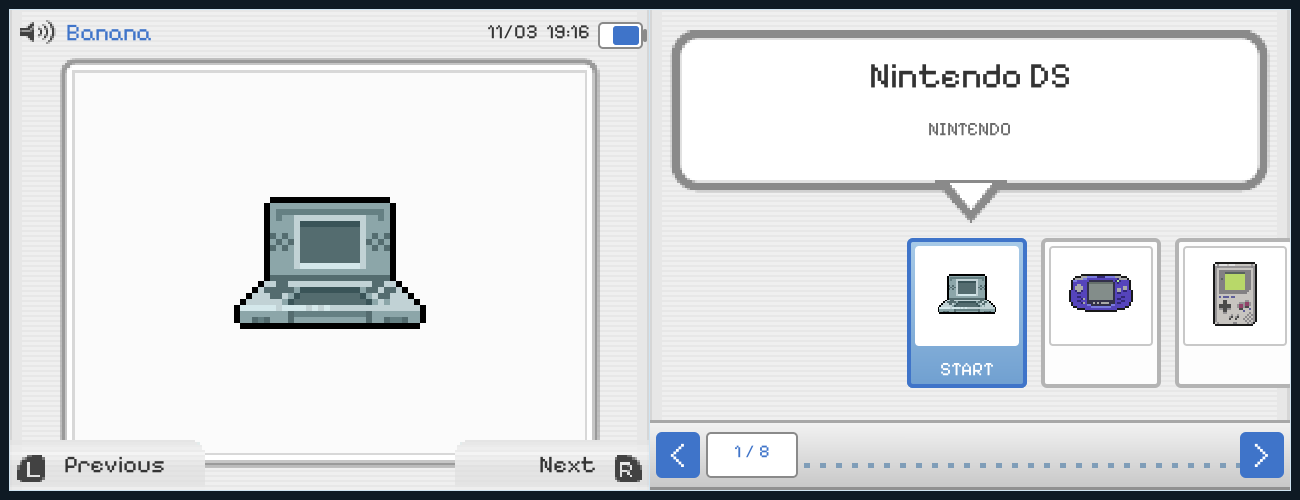
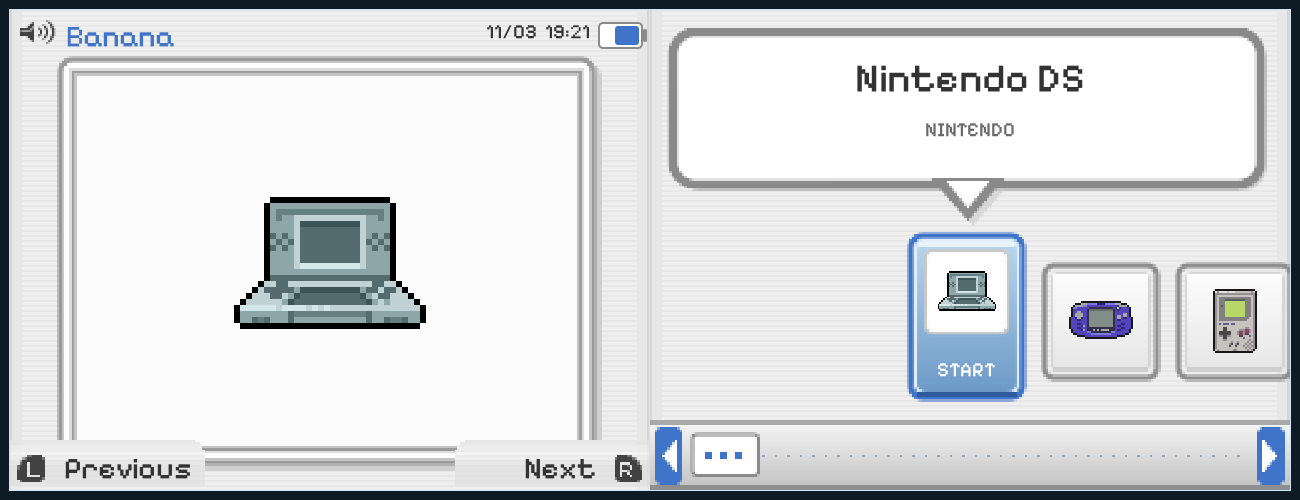
DSi Menu: pixel-art chrome with depth, the DSi's page bar and tiles
- The app tiles, the page bar and the page thumb are now 256x192 pixel art
  (48x48: 48x68 tiles, a 256x28 bar, a 28x18 thumb), upscaled by whole pixels:
  the white tile's gradient face, grey border and inset line; the selected
  tile's blue gradient, light inner rim and dark lower edge; the bar's silver
  gradient, top/bottom lines, dotted line and blue arrow buttons; the page
  thumb's white card with its blue dots.
- The bubble and the photo frame gained a pixel shadow under their edge.
- The text is on the pixel font's 10 px grid (titles 40, tabs 30, dates 20),
  so the glyphs stay blocky; START and the page thumb lead the selected tile
  and the bar, as on the DSi.
- Previews regenerated.

diff --git a/README.md b/README.md
@@ -48,12 +48,13 @@ draws. Top screen on the left, bottom on the right.)*
 
 The Nintendo DSi's white app menu, adapted to BananaOS's two screens. The top screen is the DSi's: the user name
 in blue, the date, clock and battery, the box art in its white and silver frame, the L and R tabs along the bottom.
-The bottom screen is the DSi's shelf: the white, silver-edged speech bubble with the title and maker, the row of app
-tiles (the selected one blue, with **START**), and the silver page bar with its blue arrows, dotted line and page
-thumb. The 256×192 art is upscaled by whole pixels and the text is BananaOS's pixel font, so it keeps the DSi's
-low-resolution look.
+The bottom screen is the DSi's shelf: the white, silver-edged speech bubble with the title and maker, the row of
+beveled app tiles (the selected one a blue gradient with **START**), and the silver page bar with its dotted line,
+blue arrow buttons and page thumb. Everything is drawn at the DSi's 256×192 and upscaled by whole pixels — the
+frame, bubble, tiles and page bar as pixel art with their bevels and shadows — and the text is BananaOS's pixel font,
+so it keeps the low-resolution DSi look.
 
-📄 [`dsi.json`](dsi.json) · 🖼 [`dsi/bg-top.png`](dsi/bg-top.png) · 🖼 [`dsi/bubble.png`](dsi/bubble.png)
+📄 [`dsi.json`](dsi.json) · 🖼 [`dsi/bg-top.png`](dsi/bg-top.png) · 🖼 [`dsi/pagebar.png`](dsi/pagebar.png)
 
 Home — the selected system on the photo screen, the shelf on the bottom:
 
@@ -97,8 +98,8 @@ some popular retro fonts are proprietary and can't be redistributed.
 - **DSi Menu**'s white pinstriped backgrounds, L and R tabs, volume icon and palette are from
   **[TWiLightMenu++](https://github.com/DS-Homebrew/TWiLightMenu)**'s "Default White" DSi skin by RocketRobz and
   DS-Homebrew ([`twlmenu-extras`](https://github.com/DS-Homebrew/twlmenu-extras), GPL-3.0), converted to 640×480
-  PNGs (the frame, title bubble, tiles and page bar are drawn to the skin's 256×192 proportions); the rest is
-  BananaOS's own elements. TWiLightMenu++ recreates the
+  PNGs; the frame, title bubble, tiles, page bar and thumb are pixel art drawn to the skin's 256×192 proportions
+  (bevels, gradients and shadows included); the rest is BananaOS's own elements. TWiLightMenu++ recreates the
   Nintendo DSi Menu; Nintendo DSi, the DSi Menu design and its name are Nintendo's, this is a fan-made look-alike,
   and no firmware or ROM data is included.
 
